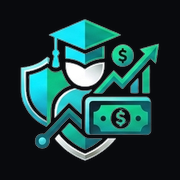
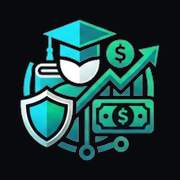
chore(brand): switch to new emblem/wordmark and rename to Student Payments Database

diff --git a/tests/ui.test.js b/tests/ui.test.js
@@ -292,8 +292,8 @@ test('App brand icon and responsive header components are properly structured', 
     expect(sidebar).not.toBeNull();
     const sidebarBrand = sidebar.querySelector('.app-brand');
     expect(sidebarBrand).not.toBeNull();
-    expect(sidebarBrand.querySelector('.brand-badge img.brand-icon')?.getAttribute('src')).toBe('brand-emblem.png');
-    expect(sidebarBrand.querySelector('.brand-name').textContent).toBe('Students Payments');
+    expect(sidebarBrand.querySelector('.brand-badge img.brand-icon')?.getAttribute('src')).toBe('brand-emblem.png?v=2');
+    expect(sidebarBrand.querySelector('.brand-name').textContent).toBe('Student Payments');
     expect(sidebarBrand.querySelector('.brand-tag').textContent).toBe('DATABASE');
 
     // Mobile Header Brand
@@ -301,8 +301,8 @@ test('App brand icon and responsive header components are properly structured', 
     expect(mobileHeader).not.toBeNull();
     const mobileBrand = mobileHeader.querySelector('.app-brand');
     expect(mobileBrand).not.toBeNull();
-    expect(mobileBrand.querySelector('.brand-badge img.brand-icon')?.getAttribute('src')).toBe('brand-emblem.png');
-    expect(mobileBrand.querySelector('.brand-name').textContent).toBe('Students Payments');
+    expect(mobileBrand.querySelector('.brand-badge img.brand-icon')?.getAttribute('src')).toBe('brand-emblem.png?v=2');
+    expect(mobileBrand.querySelector('.brand-name').textContent).toBe('Student Payments');
     expect(mobileBrand.querySelector('.brand-tag').textContent).toBe('DATABASE');
 
     // Auth Overlay keeps clean sign-in form and showcases full custom brand lockup
@@ -310,8 +310,8 @@ test('App brand icon and responsive header components are properly structured', 
     expect(authOverlay).not.toBeNull();
     expect(authOverlay.querySelector('.app-brand')).toBeNull();
     expect(authOverlay.querySelector('.showcase-org-tag')).toBeNull();
-    expect(authOverlay.querySelector('img.showcase-brand-logo')?.getAttribute('src')).toBe('brand-logo.png');
-    expect(authOverlay.querySelector('img.showcase-brand-logo')?.getAttribute('alt')).toBe('Students Payments Database');
+    expect(authOverlay.querySelector('img.showcase-brand-logo')?.getAttribute('src')).toBe('brand-logo.png?v=2');
+    expect(authOverlay.querySelector('img.showcase-brand-logo')?.getAttribute('alt')).toBe('Student Payments Database');
 });
 
 test('Transactions table renders compact .tx-quick-fix-btn with proper classes', () => {
@@ -661,9 +661,9 @@ test('Double-Payment Detector, Settlement History, and Universal Audit Log Undo 
     expect(fawryDarkLogo.getAttribute('src')).toBe('fawry-logo-dark.png');
     expect(fawryLightLogo.getAttribute('src')).toBe('fawry-logo-light.png');
 
-    // Verify site title & sidebar brand reflect Students Payments Database
-    expect(document.title).toBe('Students Payments Database');
-    expect(document.querySelector('.sidebar .brand-name')?.textContent?.trim()).toBe('Students Payments');
+    // Verify site title & sidebar brand reflect Student Payments Database
+    expect(document.title).toBe('Student Payments Database');
+    expect(document.querySelector('.sidebar .brand-name')?.textContent?.trim()).toBe('Student Payments');
 
     // Verify Foreign Transactions page Banque Misr light & dark logos exist
     const foreignDarkLogo = document.querySelector('#view-foreign-transactions .fawry-theme-logo-dark');

diff --git a/index.html b/index.html
@@ -4,7 +4,7 @@
     <meta charset="UTF-8">
     <meta http-equiv="Content-Security-Policy" content="default-src 'self'; script-src 'self' 'unsafe-inline' https://unpkg.com https://cdnjs.cloudflare.com https://cdn.jsdelivr.net https://cdn.sheetjs.com; worker-src 'self' blob: https://cdnjs.cloudflare.com; style-src 'self' 'unsafe-inline' https://fonts.googleapis.com https://cdn.jsdelivr.net; font-src 'self' data: https://fonts.gstatic.com; connect-src 'self' https://*.supabase.co wss://*.supabase.co https://cdn.jsdelivr.net https://open.er-api.com https://*.currency-api.pages.dev; img-src 'self' data: blob:; object-src 'none'; base-uri 'self'; form-action 'self';">
     <meta name="viewport" content="width=device-width, initial-scale=1.0">
-    <title>Students Payments Database</title>
+    <title>Student Payments Database</title>
     <!-- Favicon & PWA Requirements -->
     <link rel="icon" type="image/svg+xml" href="favicon.svg">
     <link rel="icon" type="image/png" sizes="32x32" href="favicon.png">
@@ -79,7 +79,7 @@
 
             <div class="auth-right-showcase" aria-hidden="true">
                 <div class="showcase-center">
-                    <img src="brand-logo.png" alt="Students Payments Database" class="showcase-brand-logo">
+                    <img src="brand-logo.png?v=2" alt="Student Payments Database" class="showcase-brand-logo">
                     <div class="showcase-accent-rule"></div>
                     <div class="showcase-dedication">
                         <span class="dedication-kicker">Made for</span>
@@ -105,10 +105,10 @@
         <div class="mobile-header">
             <div class="app-brand logo-container">
                 <div class="brand-badge">
-                    <img src="brand-emblem.png" alt="" class="brand-icon">
+                    <img src="brand-emblem.png?v=2" alt="" class="brand-icon">
                 </div>
                 <div class="brand-info">
-                    <span class="brand-name logo-text">Students Payments</span>
+                    <span class="brand-name logo-text">Student Payments</span>
                     <span class="brand-tag">DATABASE</span>
                 </div>
             </div>
@@ -129,10 +129,10 @@
             </button>
             <div class="app-brand logo-container">
                 <div class="brand-badge">
-                    <img src="brand-emblem.png" alt="" class="brand-icon">
+                    <img src="brand-emblem.png?v=2" alt="" class="brand-icon">
                 </div>
                 <div class="brand-info">
-                    <span class="brand-name logo-text">Students Payments</span>
+                    <span class="brand-name logo-text">Student Payments</span>
                     <span class="brand-tag">DATABASE</span>
                 </div>
             </div>

diff --git a/sw.js b/sw.js
@@ -1,4 +1,4 @@
-const CACHE_NAME = 'fawry-app-cache-v32';
+const CACHE_NAME = 'fawry-app-cache-v33';
 const urlsToCache = [
   './',
   './index.html',
@@ -11,8 +11,8 @@ const urlsToCache = [
   './foreign-transactions.js',
   './fx-rates.js',
   './supabase.js',
-  './brand-emblem.png',
-  './brand-logo.png',
+  './brand-emblem.png?v=2',
+  './brand-logo.png?v=2',
   './nu-logo.png',
   './fawry-logo-dark.png',
   './fawry-logo-light.png',

diff --git a/styles.css b/styles.css
@@ -1,5 +1,5 @@
 /* ==========================================================================
-   Students Payments Database — Modern Studio Stylesheet
+   Student Payments Database — Modern Studio Stylesheet
    Bento Geometry • Top Chrome + Collapsible Rail • Unified Ledger Sheets
    ========================================================================== */
 
